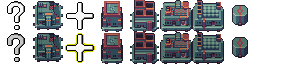
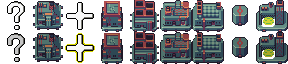
Added extractor.

Changed region(s): [[0.875, 0.0, 1.0, 1.0]]

diff --git a/Scripts/Containers/Buildings.cs b/Scripts/Containers/Buildings.cs
@@ -44,6 +44,9 @@ namespace DeuxX.Scripts
 
             var tunnel = "Tunnel";
             buildings[(uint)BuildingId.Tunnel] = new BuildingData(tunnel, string.Format(scenePath, tunnel), null, null, buildingIs1x2);
+
+            var extractor = "Extractor";
+            buildings[(uint)BuildingId.Extractor] = new BuildingData(extractor, string.Format(scenePath, extractor), null, null, buildingIs2x3);
         }
 
         public BuildingData GetBuildingData(BuildingId buildingId)
@@ -77,7 +80,7 @@ namespace DeuxX.Scripts
                     buildingNode = Extensions.SmartSceneLoader<Tunnel>(buildingData.ScenePath);
                     break;
                 case BuildingId.Extractor:
-                    //buildingNode = Extensions.SmartSceneLoader<Steamturbine>(buildingData.ScenePath);
+                    buildingNode = Extensions.SmartSceneLoader<Extractor>(buildingData.ScenePath);
                     break;
                 default:
                     var message = $"If you can read this in the editor, you forgot to add {buildingId} to Buildigns.GetBuildingNode.";

diff --git a/Scripts/Buildings/Extractor.cs b/Scripts/Buildings/Extractor.cs
@@ -1,0 +1,21 @@
+using Godot;
+using System;
+
+public class Extractor : BuildingNode
+{
+    // Declare member variables here. Examples:
+    // private int a = 2;
+    // private string b = "text";
+
+    // Called when the node enters the scene tree for the first time.
+    public override void _Ready()
+    {
+        
+    }
+
+//  // Called every frame. 'delta' is the elapsed time since the previous frame.
+//  public override void _Process(float delta)
+//  {
+//      
+//  }
+}

diff --git a/Scripts/Hud/HUD.cs b/Scripts/Hud/HUD.cs
@@ -30,6 +30,7 @@ public class HUD : Control
 		CreateButton(BuildingId.Greenhouse, node);
 		CreateButton(BuildingId.Workshop, node);
 		CreateButton(BuildingId.Tunnel, node);
+		CreateButton(BuildingId.Extractor, node);
 	}
 
 	private void SetUpUpgradeButton()
